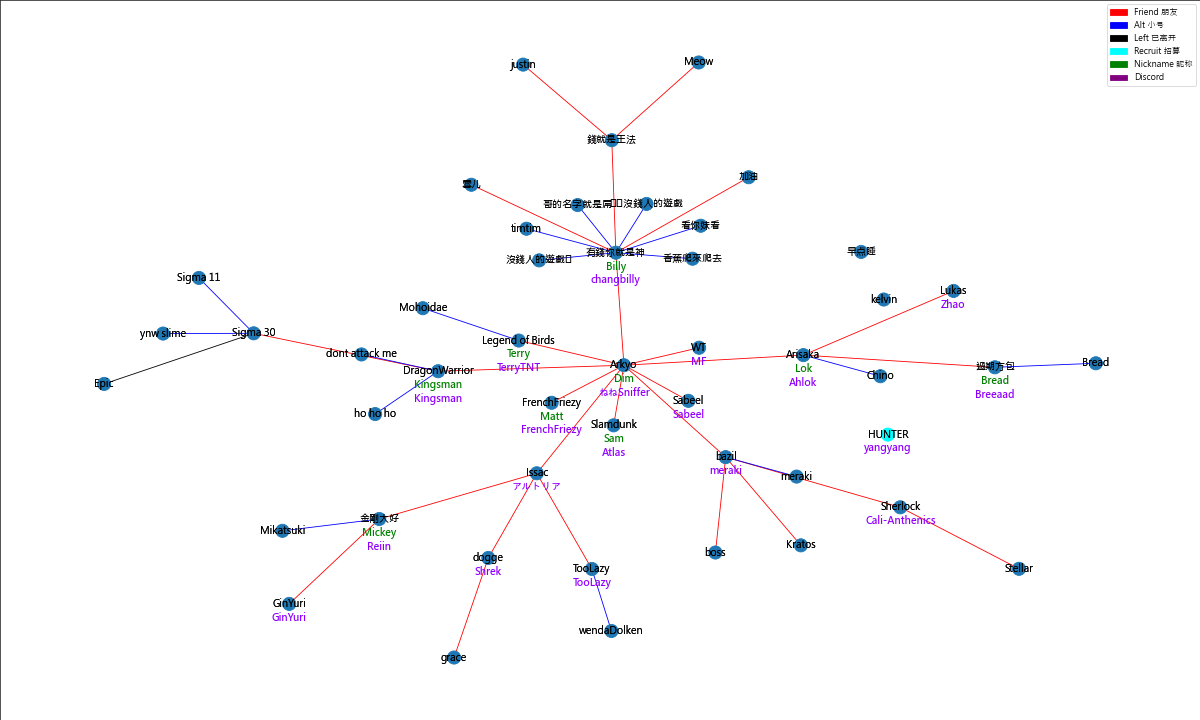
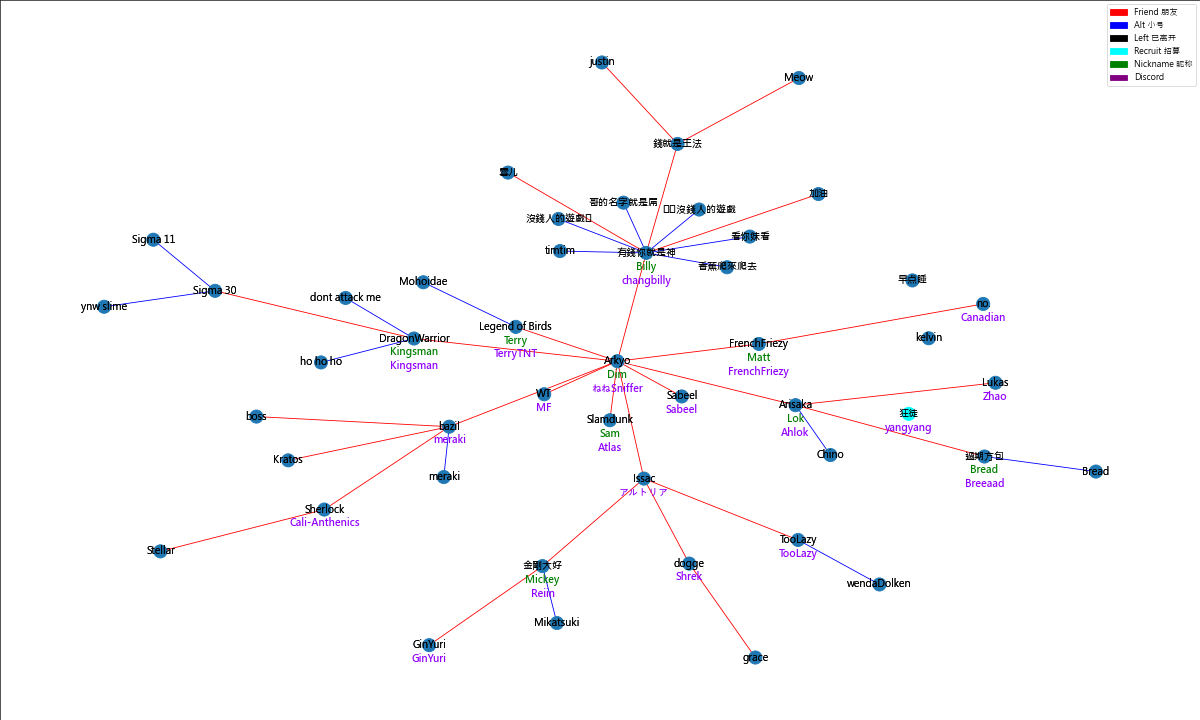
Update relation

diff --git a/relation/relation.py b/relation/relation.py
@@ -90,14 +90,15 @@ add_alt('金剛大好', 'Mikatsuki')
 add_fd('dogge', 'grace')
 add_alt('Arisaka', 'Chino')
 add_alt('過期方包', 'Bread')
-add_left('Sigma 30', 'Epic')
+# add_left('Sigma 30', 'Epic')
 add_fd('Arkyo', 'Sabeel', discord='Sabeel')
 add_fd('有錢你就是神', '加油')
 add_fd('Sherlock', 'Stellar')
 add_fd('Arisaka', 'Lukas', discord='Zhao')
 add_alt('TooLazy', 'wendaDolken')
 # add_unknown('real carti', True, discord='Xav')
-add_unknown('HUNTER', True, discord='yangyang')
+add_unknown('狂徒', True, discord='yangyang')
+add_fd('FrenchFriezy', 'no.', discord='Canadian')
 
 
 layout = nx.kamada_kawai_layout(g)
